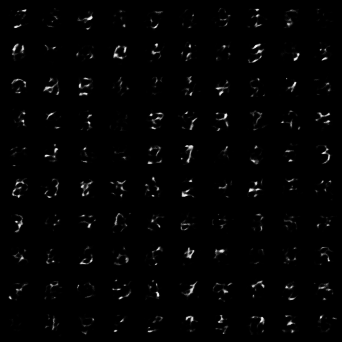
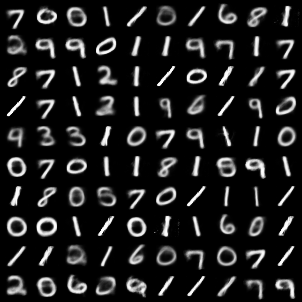
got vae+quantile working, need to fix conditioning

diff --git a/train_vae_mnist.py b/train_vae_mnist.py
@@ -24,56 +24,6 @@ from models import *
 
 device = torch.device('cuda' if torch.cuda.is_available() else 'cpu')
 
-class Synthetic(data.Dataset):
-    def __init__(self, args,  n=1000):
-        self.n = n
-        np.random.seed(0)
-        #self.y = np.random.normal(loc=0, scale=1, size=(self.n, 1))
-        #self.y = np.random.multivariate_normal(mean=[2, 3], cov=np.array([[3,2],[2,5]]), size=(self.n))
-
-        #torch.manual_seed(0)
-        #self.u = torch.rand(self.n, args.dims)
-        #self.y = np.random.multivariate_normal(mean=[0, 0], cov=np.array([[1,0],[0,1]]), size=(self.n))
-
-        #uniform
-        #self.y1 = torch.rand(size=(self.n, 1))*5 + 1
-        #self.y2 = torch.rand(size=(self.n, 1))*3 + 2
-        #self.y = torch.cat([self.y1, self.y2], dim=1)
-
-        #exp
-        #self.y1 = np.random.exponential(scale=10, size=(self.n, 1))
-        #self.y2 = np.random.exponential(scale=2, size=(self.n, 1))
-        #self.y = np.concatenate([self.y1, self.y2], axis=1)
-        
-        #gaussian checkerboard
-        #self.y = np.load('../data/synthetic/bary_ot_checkerboard_3.npy', allow_pickle=True).tolist()
-        #self.y = self.y['Y']
-       
-        #spiral
-        '''
-        self.y, _ = make_spiral(n_samples_per_class=self.n, n_classes=1,
-            n_rotations=2.5, gap_between_spiral=0.1, noise=0.2,
-                gap_between_start_point=0.1, equal_interval=True)
-        '''
-        #self.y = np.random.standard_t(df=2, size=(args.n, 2))
-
-        #mnist
-        transform=transforms.Compose([transforms.ToTensor(), transforms.Pad(2)])
-        self.y_ = datasets.MNIST('../data', train=True, download=True,transform=transform)
-        self.y = self.y_.data/255.#.flatten(-2, -1).float()/255.
-        self.x = self.y_.targets
-
-    def __len__(self):
-        return len(self.y)#self.y
-
-    def __getitem__(self, i):
-        if torch.is_tensor(self.y):
-            return self.y[i].float().to(device).unsqueeze(0), self.x[i].to(device)
-        y = torch.from_numpy(self.y[i]).float().to(device)
-        x = torch.from_numpy(self.x[i]).to(device)
-        return y.unsqueeze(0), x
-
-
 def loss_function(recon_x, x, mu, logvar):
 
     BCE = F.binary_cross_entropy(recon_x, x, reduction='sum')
@@ -132,43 +82,22 @@ def unif(size, eps=1E-7):
 def test(net, args, name, loader, vae):
     net.eval()
     vae.eval()
-    '''
     gauss = torch.distributions.normal.Normal(torch.tensor([0.]).cuda(), torch.tensor([1.]).cuda())
-    U_ = unif(size=(100, 784))
-    U = gauss.icdf(U_)
+    U = unif(size=(100, args.dims))
+    U = gauss.icdf(U)
     a = torch.arange(0, 10, device=device)
     X = a*torch.ones((10, 10), device=device).long()
     X = X.permute(1, 0).flatten()
-    print(X)
     Y_hat = net.grad(U, X)#= net.forward(U, grad=True).sum()
-    #Y_hat = net.grad(U)
+    #f = net(U).sum()
+    #Y_hat = torch.autograd.grad(f, U, create_graph=True)[0]
     print("max and min points generated: " + str(Y_hat.max()) + " " + str(Y_hat.min()))
-    '''
-    Y_hat = vae.sample(100)
-    print(Y_hat.max(), Y_hat.min(), Y_hat.mean())
-    Y_hat = Y_hat.view(100, 32, 32).unsqueeze(1)
+    #z = torch.randn(100, 2, device=device)
+    Y_hat = vae.decode(Y_hat)
+    Y_hat = Y_hat.view(100, 28, 28).unsqueeze(1)
     utils.save_image(utils.make_grid(Y_hat, nrow=10),
         './mnist.png')
     return
-    if args.dims == 1:
-        histogram(Y_hat, name) # uncomment for 1d case
-    else:
-        plot2d(Y_hat, name='imgs/2d.png') # 2d contour plot
-        plotaxis(Y_hat, name='imgs/train')
-
-def dual(U, Y_hat, Y, eps=0):
-    loss = torch.mean(Y_hat)
-    Y = Y.permute(1, 0)
-    psi = torch.mm(U, Y) - Y_hat
-    sup, _ = torch.max(psi, dim=0)
-    loss += torch.mean(sup)
-
-    if eps == 0:
-        return loss
-
-    l = torch.exp((psi-sup)/eps)
-    loss += eps*torch.mean(l)
-    return loss
 
 positive_params = []
 
@@ -179,21 +108,24 @@ def train(net, optimizer, loader, vae, args):
         running_loss = 0.0
         for idx, (Y, label) in enumerate(loader):
             Y = Y.cuda()
-            #u = unif(size=(args.batch_size, args.dims))
-            #u = gauss.icdf(u)
+            label = label.cuda()
+            u = unif(size=(args.batch_size, args.dims))
+            u = gauss.icdf(u)
             optimizer.zero_grad()
-            #Y_hat = net(u)
-            (mean, logvar), Y_recon, z = vae(Y)
-            loss = vae.reconstruction_loss(Y_recon, Y) #+ dual(U=u, Y_hat=Y_hat, Y=z, eps=args.eps)
-            loss += vae.kl_divergence_loss(mean, logvar)
+            alpha, beta = net(u)
+            X = net.to_onehot(label)
+            Y_recon, mu, logvar, z = vae(Y)
+            loss = loss_function(Y_recon, Y, mu, logvar)#vae.reconstruction_loss(Y_recon, Y)
+            loss += dual(U=u, Y_hat=(alpha, beta), Y=mu.detach(), X=X, eps=args.eps)
+            #loss = dual_unconditioned(U=u, Y_hat=Y_hat, Y=mu.detach(), eps=args.eps)
             loss.backward()
             optimizer.step()
-            #for p in positive_params:
-            #	p.data.copy_(torch.relu(p.data))
+            for p in positive_params:
+            	p.data.copy_(torch.relu(p.data))
             running_loss += loss.item()
 
         print('Epoch %d : %.5f' %
-            (epoch, running_loss/(idx+1)))
+            (epoch, running_loss/len(loader.dataset)))
 
     test(net, args, name='imgs/trained.png', loader=loader, vae=vae)
     '''
@@ -207,7 +139,7 @@ if __name__ == "__main__":
     # optimization related arguments
     parser.add_argument('--batch_size', default=128, type=int,
                         help='input batch size')
-    parser.add_argument('--epoch', default=100, type=int,
+    parser.add_argument('--epoch', default=25, type=int,
                         help='epochs to train for')
     parser.add_argument('--optimizer', default='adam', help='optimizer')
     parser.add_argument('--lr', default=0.005, type=float, help='LR')
@@ -218,7 +150,7 @@ if __name__ == "__main__":
     parser.add_argument('--iters', default=1000, type=int)
     parser.add_argument('--mean', default=0, type=int)
     parser.add_argument('--std', default=1, type=int)
-    parser.add_argument('--dims', default=128, type=int)
+    parser.add_argument('--dims', default=2, type=int)
     parser.add_argument('--m', default=10, type=int)
     parser.add_argument('--n', default=5000, type=int)
     parser.add_argument('--k', default=100, type=int)
@@ -233,23 +165,27 @@ if __name__ == "__main__":
         print("{:16} {}".format(key, val))
 
     torch.cuda.set_device('cuda:0')
+    net = ConditionalConvexQuantile(xdim=10, args=args)
+    '''
     net = ICNN_LastInp_Quadratic(input_dim=args.dims,
-                                 hidden_dim=512,#1024,#512
-                                 activation='celu',
-                                 num_layer=3)
-
-    #net = icq(net_, gs=args.gaussian_support)
+                        hidden_dim=512,
+                        activation='celu',
+                        num_layer=3)
+    '''
+    '''
     vae = VAE(image_size=32,
             channel_num=1,
             kernel_num=128,
             z_size=args.dims)
+    '''
+    vae = MLPVAE()
 
-    #for p in list(net.parameters()):
-    #    if hasattr(p, 'be_positive'):
-    #        positive_params.append(p)
-    #    p.data = torch.from_numpy(truncated_normal(p.shape, threshold=1./np.sqrt(p.shape[1] if len(p.shape)>1 else p.shape[0]))).float()
+    for p in list(net.parameters()):
+        if hasattr(p, 'be_positive'):
+            positive_params.append(p)
+        p.data = torch.from_numpy(truncated_normal(p.shape, threshold=1./np.sqrt(p.shape[1] if len(p.shape)>1 else p.shape[0]))).float()
 
-    transform=transforms.Compose([transforms.Pad(2), transforms.ToTensor()])
+    transform=transforms.Compose([transforms.ToTensor()])
     ds = datasets.MNIST('../data', train=True, download=True,transform=transform)
     loader = data.DataLoader(ds, batch_size=args.batch_size, shuffle=True, drop_last=True)
     optimizer = optimizer(net, vae, args)

diff --git a/models.py b/models.py
@@ -26,6 +26,55 @@ def dual(U, Y_hat, Y, X, eps=0):
     loss += eps*torch.mean(l)
     return loss
 
+def dual_unconditioned(U, Y_hat, Y, eps=0):
+    loss = torch.mean(Y_hat)
+    Y = Y.permute(1, 0)
+    psi = torch.mm(U, Y) - Y_hat
+    sup, _ = torch.max(psi, dim=0)
+    loss += torch.mean(sup)
+
+    if eps == 0:
+        return loss
+
+    l = torch.exp((psi-sup)/eps)
+    loss += eps*torch.mean(l)
+    return loss
+
+def reparameterize(mu, logvar):
+    std = torch.exp(0.5 * logvar)
+    eps = torch.randn_like(std)
+    return eps.mul(std).add_(mu)
+
+class MLPVAE(nn.Module):
+    def __init__(self):
+        super(MLPVAE, self).__init__()
+
+        self.fc1 = nn.Linear(784, 512)
+        self.fc2 = nn.Linear(512, 256)
+        self.fc31 = nn.Linear(256, 2)
+        self.fc32 = nn.Linear(256, 2)
+        self.fc4 = nn.Linear(2, 256)
+        self.fc5 = nn.Linear(256, 512)
+        self.fc6 = nn.Linear(512, 784)
+
+    def encode(self, x):
+        h = F.relu(self.fc1(x))
+        h = F.relu(self.fc2(h))
+        return self.fc31(h), self.fc32(h)
+
+    def reparameterize(self, mu, logvar):
+        return reparameterize(mu, logvar) if self.training else mu
+
+    def decode(self, z):
+        h = F.relu(self.fc4(z))
+        h = F.relu(self.fc5(h))
+        return torch.sigmoid(self.fc6(h))
+
+    def forward(self, x):
+        mu, logvar = self.encode(x.view(-1, 784))
+        z = self.reparameterize(mu, logvar)
+        return self.decode(z), mu, logvar, z
+
 class VAE(nn.Module):
     def __init__(self, image_size, channel_num, kernel_num, z_size):
         # configurations
@@ -158,18 +207,18 @@ class ConditionalConvexQuantile(nn.Module):
     def __init__(self, xdim, args):
         super(ConditionalConvexQuantile, self).__init__()
         self.xdim = xdim
-        self.alpha = ICNN_LastInp_Quadratic(input_dim=784,#args.dims,
-                                 hidden_dim=512,#1024,#512
+        self.alpha = ICNN_LastInp_Quadratic(input_dim=args.dims,
+                                 hidden_dim=64,#1024,#512
                                  activation='celu',
                                  num_layer=3)
-        self.beta = ICNN_LastInp_Quadratic(input_dim=784,
-                                 hidden_dim=512,
+        self.beta = ICNN_LastInp_Quadratic(input_dim=args.dims,
+                                 hidden_dim=64,
                                  activation='celu',
-                                 num_layer=1,
+                                 num_layer=3,
                                  out_dim=self.xdim)
         #self.fc_x = nn.Linear(self.xdim, self.xdim)
 
-    def forward(self, z, x):
+    def forward(self, z):
         # we want onehot for categorical and non-ordinal x.
         #x = self.to_onehot(x)
         alpha = self.alpha(z)

diff --git a/train_mnist.py b/train_mnist.py
@@ -187,7 +187,7 @@ def train(net, optimizer, loader, args):
             u = unif(size=(args.batch_size, 784))#args.dims))
             u = gauss.icdf(u)
             optimizer.zero_grad()
-            alpha, beta = net(u, label)
+            alpha, beta = net(u)
             X = net.to_onehot(label)
             #X = net.fc_x(X)
             loss = dual(U=u, Y_hat=(alpha, beta), Y=Y, X=X, eps=args.eps)
